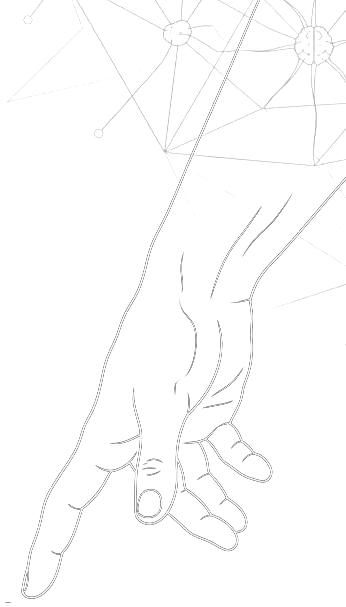
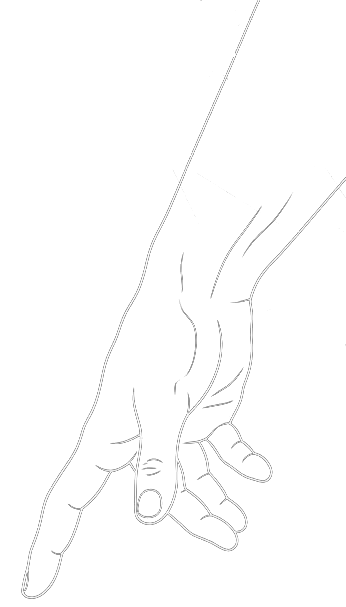
tweak: hero hands — bigger, flatter, more transparent, forearm fades out
User replaced hero-hand-human.png with a cleaner version. New fingertip coord
measured: (9%, 98.5%) — updated transform-origin and end-translate accordingly.

1. Alignment: measured natural forearm-axis angle (human ~71°, robot ~101°),
   increased final rotation to ±62° (from ±30°) so both arms rest at roughly
   ±9° from horizontal — effectively both forearms lie on the same horizontal
   line, meeting at the fingertips.

2. Visual:
   - Size: height 82vh -> 105vh (much bigger)
   - Opacity: 0.5 -> 0.32 (more transparent)

3. Layout:
   - Anchor x shifted outward (human 52% -> 55%, robot 48% -> 45%) so the hand
     bulk extends further off-screen and only the forearm+fingertip zone is
     visible on stage.
   - mask-image: linear-gradient on each hand fades the FAR end (where the arm
     exits the frame) from full opacity at 35% to transparent at 90% along the
     PNG's local Y axis. Mask is in element-local coords so rotation doesn't
     affect the fade direction.

diff --git a/index.html b/index.html
@@ -274,37 +274,39 @@ nav{
 }
 .hero-hand{
   position:absolute;
-  height:82vh;width:auto;max-width:none;  /* larger, so hands read as reaching in */
+  height:105vh;width:auto;max-width:none;  /* much larger so most of the arm sits off-screen */
   opacity:0;
   filter:invert(.85) sepia(.4) hue-rotate(165deg) saturate(1.8) brightness(.55);
   will-change:transform,opacity;
 }
-/* Fingertip anchor math (PNGs carry their fingertip at a known %):
-   Human PNG — fingertip at (2%, 99%) of its own box
-   Robot PNG — fingertip at (80%, 1%)  of its own box
-   End transform: translate(-x%, -y%) aligns that pixel to the (left, top) anchor. */
+/* Forearm-end fade: the FAR end of each PNG (opposite from fingertip) fades
+   to transparent so the arm doesn't show a hard cut. Mask is in the element's
+   local coords so fade direction is correct regardless of CSS rotation. */
 .hero-hand-human{
-  left:52%;top:50%;
-  transform-origin:2% 99%;   /* pivot at the fingertip so rotation keeps it pinned */
+  left:55%;top:50%;
+  transform-origin:9% 98.5%;   /* pivot at the fingertip */
+  -webkit-mask-image:linear-gradient(to top, rgba(0,0,0,1) 0%, rgba(0,0,0,1) 35%, rgba(0,0,0,0) 90%);
+          mask-image:linear-gradient(to top, rgba(0,0,0,1) 0%, rgba(0,0,0,1) 35%, rgba(0,0,0,0) 90%);
   animation:heroHandHumanIn 2.6s cubic-bezier(.22,.8,.28,1) .45s forwards;
 }
 .hero-hand-robot{
-  left:48%;top:50%;
+  left:45%;top:50%;
   transform-origin:80% 1%;   /* pivot at the fingertip */
+  -webkit-mask-image:linear-gradient(to bottom, rgba(0,0,0,1) 0%, rgba(0,0,0,1) 35%, rgba(0,0,0,0) 90%);
+          mask-image:linear-gradient(to bottom, rgba(0,0,0,1) 0%, rgba(0,0,0,1) 35%, rgba(0,0,0,0) 90%);
   animation:heroHandRobotIn 2.6s cubic-bezier(.22,.8,.28,1) .45s forwards;
 }
-/* Rotation ~30° flattens the forearm axis toward horizontal (down from the
-   near-vertical default). Both hands now read as reaching into frame from
-   the corners at a shallow diagonal instead of plunging straight down/up. */
+/* Rotation: natural axis was ~71° from horizontal. Rotating by ~-62° / +62°
+   brings the arm axes down to near-horizontal (~10° tilt each, symmetrical). */
 @keyframes heroHandHumanIn{
-  0%  {transform:translate(400%, -340%) rotate(-55deg); opacity:0}
-  35% {opacity:.5}
-  100%{transform:translate(-2%, -99%)   rotate(-30deg); opacity:.5}
+  0%  {transform:translate(260%, -220%) rotate(-85deg); opacity:0}
+  35% {opacity:.32}
+  100%{transform:translate(-9%, -98.5%) rotate(-62deg); opacity:.32}
 }
 @keyframes heroHandRobotIn{
-  0%  {transform:translate(-360%, 320%) rotate(55deg);  opacity:0}
-  35% {opacity:.5}
-  100%{transform:translate(-80%, -1%)   rotate(30deg);  opacity:.5}
+  0%  {transform:translate(-240%, 200%) rotate(85deg);  opacity:0}
+  35% {opacity:.32}
+  100%{transform:translate(-80%, -1%)   rotate(62deg);  opacity:.32}
 }
 @media(prefers-reduced-motion:reduce){
   .hero-hand{animation-duration:.01s;animation-delay:0s}
